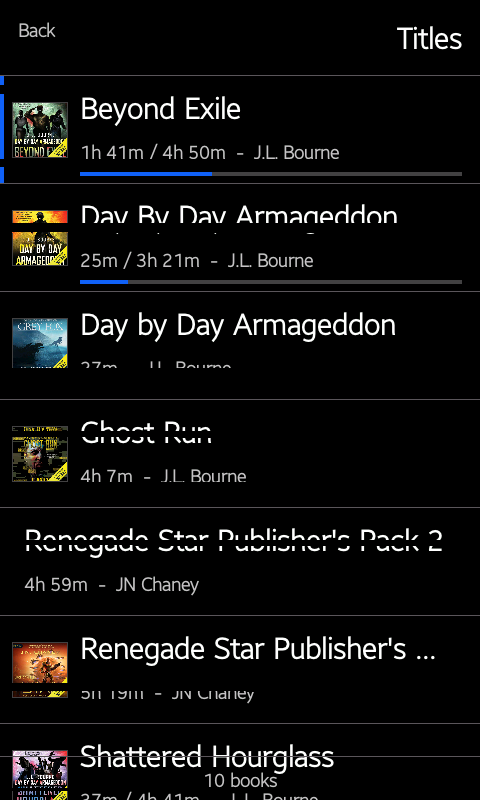
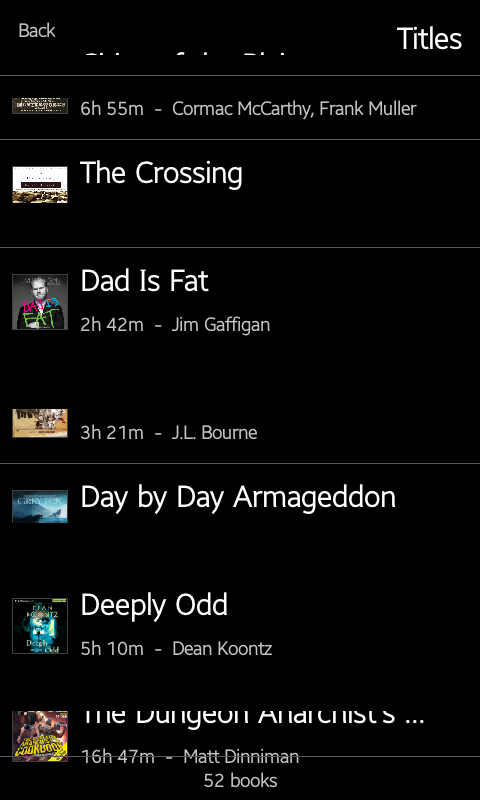
Update README to v2.0.16 and refresh screenshots
Bump the current-release block to v2.0.16: version marker, about-screen
label, download URL, package name, and MD5/SHA256 fetched from the
GitHub release. Document boot-ADB as enabled in the public release
(the v2.0.16 release notes list it as a carried feature) and update the
build example to the actual v2.0.16 command with -EnableBootAdb. Add the
Bluetooth A2DP output feature, which was missing from the README, and
mention BlueALSA in "How it works". Point the docs section at the new
firmware/releases/v2.0.16/ notes and checksums.

Replace the Jul 18 screenshots with fresh 480x800 captures from the
v2.0.16 device for home, titles, detail, now-playing, chapters,
bookmarks, and launcher (scanning was byte-identical, unchanged).

Changed region(s): [[0.0, 0.5, 0.9375, 1.0], [0.0, 0.0938, 0.9688, 0.4688]]

diff --git a/README.md b/README.md
@@ -3,20 +3,21 @@
 A self-contained audiobook app for the normal HiBy R1, based on stock HiBy R1
 firmware 1.6. **Not for the R1 MIDI.**
 
-> **v2.0.0 ("2.0 A") is the current release.** It replaces the older v1.6.x
-> resume-daemon / stock-route approach with a dedicated in-process audiobook app
-> (`audiobook_app/`) that draws its own UI and drives audio through ALSA.
+> **v2.0.16 is the current release.** It ships the dedicated in-process
+> audiobook app (`audiobook_app/`) that draws its own UI and drives audio
+> through ALSA, replacing the older v1.6.x resume-daemon / stock-route approach.
 
 ## Current release
 
-- **Version marker:** `2.0A`
-- **About-screen label:** `HiBy R1 2.0 A`
-- **Download:** <https://github.com/yetisoldier/Hiby-R1-Audiobook-Mod/releases/tag/v2.0.0>
-- **Package:** `r1-audiobooks-2.0A.upt` (rename to `r1.upt` to install)
-- **UPT MD5:** `5153a5a80e9a4acdc9d2748011b0c34d`
[1 lines of base64/hex data omitted]
-- **Persistent boot-ADB:** disabled (public release). Use a `-EnableBootAdb`
- development build for testing.
+- **Version marker:** `2.0.16`
+- **About-screen label:** `HiBy R1 2.0.16`
+- **Download:** <https://github.com/yetisoldier/Hiby-R1-Audiobook-Mod/releases/tag/v2.0.16>
+- **Package:** `r1-audiobooks-2.0.16.upt` (rename to `r1.upt` to install)
+- **UPT MD5:** `2826d58dfd5ca15e5e4a9a452ca6fac0`
[1 lines of base64/hex data omitted]
+- **Persistent boot-ADB:** enabled. ADB starts automatically after every boot
+ (installs `/etc/init.d/S90adb`), so the device is reachable over USB without a
+ manual enable. Drop `-EnableBootAdb` from the build for a no-ADB variant.
 - **Base firmware:** stock HiBy R1 1.6 (normal R1).
 
 Before flashing, keep a known-good stock 1.6 `r1.upt` for recovery. This is
@@ -52,7 +53,8 @@ The audiobook app runs **in-process** inside `hiby_player`:
  framebuffer buffer *before* each pan. This keeps HiBy's display loop (and the
  touch controller) alive while showing our UI.
 - The event loop reads touch and the hardware keys, and the player engine
- decodes MP3 / M4B and writes PCM straight to ALSA.
+ decodes MP3 / M4B and writes PCM to ALSA (wired) or BlueALSA (Bluetooth A2DP),
+ falling back to wired when no BT sink is connected.
 - Exiting the app clears the framebuffer and returns immediately so the HiBy
  launcher redraws cleanly.
 
@@ -81,7 +83,11 @@ browser, Bluetooth, USB, and system UI are otherwise untouched.
 - **M4B chapters** parsed from the embedded QuickTime chapter track (stsc-aware)
  or Nero `chpl`; MP3 books get one chapter per file. Tap a chapter to seek.
 - **Bookmarks**: tap **Mark** on Now Playing to add; tap to jump; long-press to
- delete.
+ delete. Bookmarks are stored on the SD card, so a full internal data partition
+ can never lose one.
+- **Bluetooth A2DP output**: streams to paired Bluetooth headphones (BlueALSA),
+ with AVRCP play/pause from the remote. Falls back to the wired output
+ automatically when no BT sink is connected.
 
 **Hardware**
 - Power button toggles backlight (audio keeps playing dark; double-tap wakes).
@@ -110,7 +116,7 @@ browser, Bluetooth, USB, and system UI are otherwise untouched.
 
 ## Install
 
-1. Download `r1-audiobooks-2.0A.upt` from the release page.
+1. Download `r1-audiobooks-2.0.16.upt` from the release page.
 2. Rename it to exactly `r1.upt` (the R1 will not recognize the update otherwise).
 3. Copy it to the root of the SD card.
 4. On the R1, run the normal firmware update (System -> Firmware Update -> Local).
@@ -144,19 +150,21 @@ Build the hook/app shared library:
 powershell -NoProfile -ExecutionPolicy Bypass -File tools\build_r1_audiobook_hook.ps1
 ```
 
-Build the public-release firmware (no boot-ADB, version 2.0 A):
+Build the public-release firmware (version 2.0.16):
 
 ```powershell
 powershell -NoProfile -ExecutionPolicy Bypass -File tools\build_r1_audiobook_firmware.ps1 `
- -OutDir work\audiobook-firmware-2.0A `
- -OutputUpt work\audiobook-firmware-2.0A\r1-audiobooks-2.0A.upt `
+ -OutDir work\audiobook-firmware-2.0.16 `
+ -OutputUpt work\audiobook-firmware-2.0.16\r1-audiobooks-2.0.16.upt `
  -IncludeAudiobookNativeApp `
- -CustomVersionId 2.0A `
- -CustomVersionLabel "HiBy R1 2.0 A"
+ -EnableBootAdb `
+ -CustomVersionId 2.0.16 `
+ -CustomVersionLabel "HiBy R1 2.0.16"
 ```
 
-Development builds add `-EnableBootAdb` for persistent ADB (installs
-`/etc/init.d/S90adb`). **Do not** include `-EnableBootAdb` in public releases.
+`-EnableBootAdb` installs `/etc/init.d/S90adb` so ADB starts automatically after
+every boot. The v2.0.16 public release ships with it on; drop the flag for a
+build without persistent ADB.
 
 The NativeApp build is mutually exclusive with the legacy resume-daemon
 switches (`-IncludeAudiobookLauncherGenre`, `-IncludeAudiobookResumeRuntime`,
@@ -173,7 +181,7 @@ alone.
 - `docs/github_release_process.md` - GitHub Release publishing runbook.
 - `docs/production_release_checklist.md` - release and verification checklist.
 - `docs/screenshots/` - README screenshots.
-- `firmware/releases/v2.0.0/` - v2.0.0 release notes, checksums, and package.
+- `firmware/releases/v2.0.16/` - v2.0.16 release notes and checksums.
 - `CHANGELOG.md` - release history.
 
 ## Attribution and sources

diff --git a/firmware/releases/v2.0.16/RELEASE_NOTES.md b/firmware/releases/v2.0.16/RELEASE_NOTES.md
@@ -1,0 +1,50 @@
+HiBy R1 Audiobook Mod v2.0.16
+=============================
+
+A small, focused update for the HiBy R1 on stock firmware 1.6. It installs the
+in-process audiobook app (the "Audiobooks" tile) alongside the stock player.
+Do not install this on the R1 MIDI.
+
+Install over v2.0.4 (or any v2.0.x). Your library, resume positions,
+bookmarks, and Bluetooth pairings are preserved.
+
+About-screen label after install: "HiBy R1 2.0.16".
+
+What's new in 2.0.16
+--------------------
+
+Bookmarks are now stored SD-primary
+- Bookmarks are saved to the SD card, not to the internal data partition, so a
+  full internal partition can never lose a bookmark or refuse to add one. The
+  internal partition on this device is chronically near-full (permanent UBIFS
+  overhead plus the stock music database the player rebuilds every boot), and
+  a bookmark add used to write to the library database there. That write is now
+  gone: adding a bookmark touches only the SD card, so it can no longer trip
+  the "Book not found" screen the way a failed database write could.
+- Each book's bookmarks live in one tiny file on the SD card, written
+  atomically (temp file then rename) so a power cut cannot corrupt an existing
+  set. A damaged line is skipped on read; the worst case is losing one book's
+  marks, never the whole library.
+- Existing bookmarks already in the library database are moved to the SD card
+  automatically the first time you open that book's bookmark screen. After that
+  the database table is no longer used for bookmarks (it stays in place but is
+  inert). The library database itself stays on the internal partition, which is
+  power-cut-safe, unlike the SD card.
+- The same SD-sidecar cleanup that drops stale resume-position files for
+  removed books now also drops their stale bookmark files, so orphan bookmark
+  files do not accumulate.
+
+Everything else is unchanged from 2.0.15: PNG and progressive-JPEG covers,
+Bluetooth A2DP output with AVRCP remote and wired fallback, SD-primary resume
+positions, boot ADB, and the storage-full scan guard.
+
+Install
+-------
+1. Copy r1-audiobooks-2.0.16.upt to the root of your SD card.
+2. On the device, run the firmware update from the SD card and confirm.
+3. The device reboots into recovery, applies the package, and reboots into
+   2.0.16. The Audiobooks tile launches the audiobook app.
+
+Verify the checksums with MD5SUMS.txt / SHA256SUMS.txt after copying.
+
+Feedback and issues: please report on the GitHub repository.
